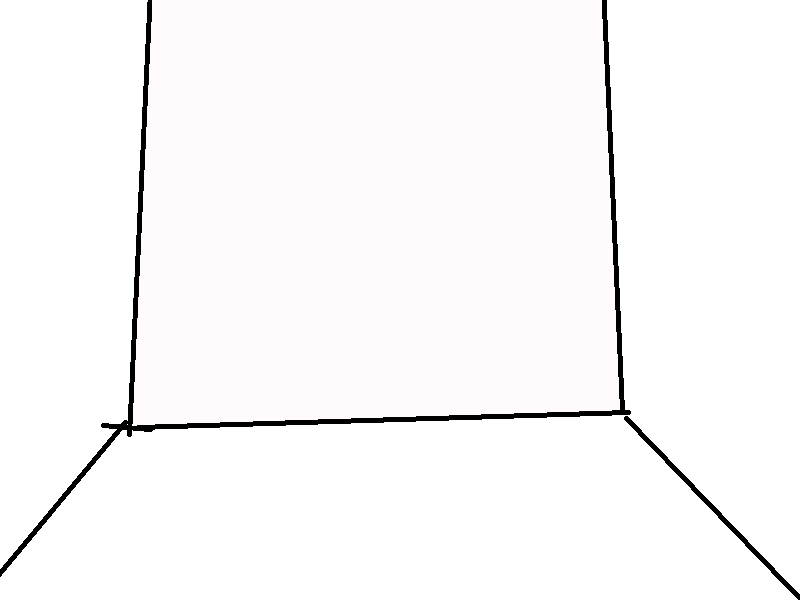
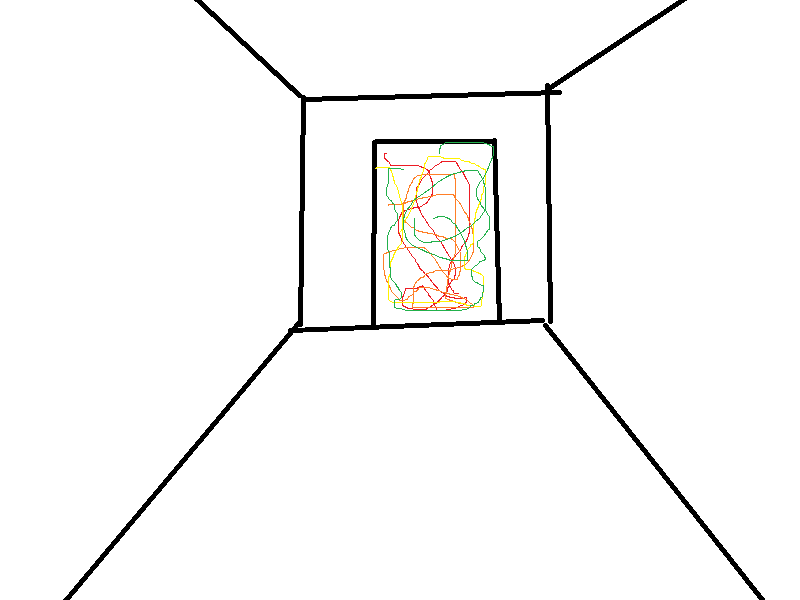
GCH this, GCH that, GCH Wi-Fi, GCH RAM
I added GCH like you probably guessed from the commit title. You can move around and stuff. But there's really not a lot of other things.

diff --git a/main.py b/main.py
@@ -7,6 +7,7 @@ from consts import WIDTH, HEIGHT, FPS, SAMP_CAP, save_folder
 from func import (file_thing, save, default, sfx, mus, fill_out_six_files, def_game, def_dia,
 setup_dialogue, setup_game, animate, settings, samp)
 from game import process_game
+import random
 
 
 #os.environ["SDL_WINDOWS_DPI_AWARENESS"] = "permonitorv2"
@@ -86,7 +87,44 @@ movement = {
     "CasinoSlot": {"CasinoEntrance": pg.Rect(0, 0, 50, 600),
                    "CasinoBlackjack": pg.Rect(750, 0, 50, 600)},
     "CasinoBlackjack": {"CasinoSlot": pg.Rect(0, 0, 50, 600)},
-    "LCE": {"LCPE": pg.Rect(0, 0, 800, 600)}
+    "LCE": {"LCPE": pg.Rect(0, 0, 800, 600)},
+    "GCH_Entrance_Top": {"DatCorner": pg.Rect(0, 550, 800, 50),
+                         "GCH_Entrance": pg.Rect(173, 1, 427, 428)},
+    "GCH_Entrance": {"GCH_Entrance_Top": pg.Rect(0, 550, 800, 50),
+                     "BarGCH": pg.Rect(261, 51, 230, 372),
+                     "GCH_Trilator": pg.Rect(0, 0, 50, 600),
+                     "GCH_BeforeBigEmptyRoom": pg.Rect(750, 0, 50, 600)},
+    "GCH_Trilator": {"GCH_Gym1": pg.Rect(346, 111, 82, 73),
+                    "GCH_Entrance": pg.Rect(0, 550, 800, 50)},
+    "GCH_secret": {"GCH_Trilator": pg.Rect(0, 550, 800, 50)},
+    "GCH_Gym1": {"GymBike": pg.Rect(507, 55, 152, 303),
+                 "GymRun": pg.Rect(112, 41, 150, 343),
+                 "GCH_Gym2": pg.Rect(265, 40, 244, 341),
+                 "GCH_Trilator": pg.Rect(750, 0, 50, 600)},
+    "GCH_Gym2": {"GymBLift": pg.Rect(528, 80, 270, 363),
+                 "GymLift": pg.Rect(2, 82, 240, 385),
+                 "GCH_Gym1": pg.Rect(0, 550, 800, 50),
+                 "GCH_Gym3": pg.Rect(245, 117, 281, 273)},
+    "GCH_Gym3": {"GymFood": pg.Rect(473, 114, 326, 337),
+                 "GymSleep": pg.Rect(1, 113, 279, 347),
+                 "GCH_Farm": pg.Rect(282, 115, 201, 342),
+                 "GCH_Gym2": pg.Rect(0, 550, 800, 50)},
+    "GCH_Farm": {"GCH_Gym3": pg.Rect(0, 550, 800, 50)},
+    "GCH_BeforeBigEmptyRoom": {"GCHLBigRoom": pg.Rect(163, 134, 72, 348),
+                               "GCHRBigRoom": pg.Rect(335, 106, 95, 317),
+                               "GCH_Entrance": pg.Rect(0, 550, 800, 50)},
+    "GCHLBigRoom": {"GCHLBehind": pg.Rect(0, 599, 800, 1),
+                    "GCH_BeforeBigEmptyRoom": pg.Rect(582, 29, 21, 482),
+                    "GCHBigRoom": pg.Rect(200, 19, 255, 284)},
+    "GCHRBigRoom": {"GCHRBehind": pg.Rect(0, 550, 800, 50),
+                    "GCH_BeforeBigEmptyRoom": pg.Rect(0, 0, 50, 600),
+                    "GCHBigRoom": pg.Rect(93, 0, 707, 348)},
+    "GCHBigRoom": {"GCHLBigRoom": pg.Rect(0, 0, 50, 600),
+                   "GCHRBigRoom": pg.Rect(0, 550, 800, 50)},
+    "GCHLBehind": {"GCHRestrictedUF": pg.Rect(128, 0, 499, 412),
+                   "GCHLBigRoom": pg.Rect(0, 550, 800, 50)},
+    "GCHRBehind": {"Baloons!": pg.Rect(372, 139, 121, 187),
+                   "GCHRBigRoom": pg.Rect(0, 550, 800, 50)}
 }
 
 interactions = {
@@ -142,7 +180,7 @@ interactions = {
     "neighborhood1": [(pg.Rect(196, 173, 67, 291), "1's_house")], ##
     'intersection2': [(pg.Rect(273, 97, 213, 243), "Dummy!")],
     "LCPE": [(pg.Rect(161, 0, 214, 139), "BrickWall")],
-    "DatCorner": [(pg.Rect(544, 136, 133, 189), "EnterGCH"), ##
+    "DatCorner": [(pg.Rect(544, 136, 133, 189), "EnterGCH"),
                   (pg.Rect(231, 270, 146, 131), "chips")], ##
     "DatCornerR": [(pg.Rect(449, 168, 113, 168), "EnterRestuarant")], ##
     "DatCornerRB": [(pg.Rect(4, 90, 371, 259), "Dumpster")],
@@ -151,7 +189,8 @@ interactions = {
                 (pg.Rect(536, 140, 132, 307), "ArcadeGame3")],
     "Arcade2": [(pg.Rect(262, 73, 201, 438), "ArcadeGame4")],
     "CasinoSlot": [(pg.Rect(297, 0, 196, 475), "CasinoSlot")],
-    "CasinoBlackjack": [(pg.Rect(174, 84, 471, 332), "Blackjack")]
+    "CasinoBlackjack": [(pg.Rect(174, 84, 471, 332), "Blackjack")],
+    "GCH_Trilator": [(pg.Rect(245, 94, 61, 172), "SecretDoor")]
 }
 
 images = {
@@ -194,13 +233,32 @@ images = {
     "CSM": pg.image.load(file_thing('res/CasinoSlotMachine.png')).convert_alpha(),
     "Casino/SlotMachine/empty": pg.image.load(file_thing("res/Casino/SlotMachine/empty.png")).convert_alpha(),
     "LCE": pg.image.load(file_thing("res/LCE.png")).convert_alpha(),
-    "CasinoBlackjack": pg.image.load(file_thing("res/CasinoBlackjack.png")).convert_alpha()
+    "CasinoBlackjack": pg.image.load(file_thing("res/CasinoBlackjack.png")).convert_alpha(),
+    "GCH_Entrance_Top": pg.image.load(file_thing("res/GCH_Entrance_Top.png")).convert_alpha(),
+    "GCH_Entrance": pg.image.load(file_thing("res/GCH_Entrance.png")).convert_alpha(),
+    "GCH_Trilator": pg.image.load(file_thing("res/GCHTrilator.png")).convert_alpha(),
+    "GCH_secret": pg.image.load(file_thing("res/TrashRoomWithSomeLoreGCH.png")).convert_alpha(),
+    "GCH_Gym1": pg.image.load(file_thing("res/GCHGym1.png")).convert_alpha(),
+    "GCH_Gym2": pg.image.load(file_thing("res/GCHGym2.png")).convert_alpha(),
+    "GCH_Gym3": pg.image.load(file_thing("res/GCHGym3.png")).convert_alpha(),
+    "GCH_Farm": pg.image.load(file_thing("res/GCHFarm.png")).convert_alpha(),
+    "BarGCH": pg.image.load(file_thing("res/EnterBarGCH1Thing.png")).convert_alpha(),
+    "GCH_BeforeBigEmptyRoom": pg.image.load(file_thing("res/GCH_BeforeBigEmptyRoom.png")).convert_alpha(),
+    "GCH_Table": pg.image.load(file_thing("res/GCHBarSittingAtTable.png")).convert_alpha(),
+    "GCHLBigRoom": pg.image.load(file_thing("res/GCHLBigRoom.png")).convert_alpha(),
+    "GCHRBigRoom": pg.image.load(file_thing("res/GCHRBigRoom.png")).convert_alpha(),
+    "GCHRBehind": pg.image.load(file_thing("res/GCHRBehind.png")).convert_alpha(),
+    "GCHLBehind": pg.image.load(file_thing("res/GCHLBehind.png")).convert_alpha(),
+    "GCHBigRoom": pg.image.load(file_thing("res/GCHBigRoom.png")).convert_alpha(),
+    "GCHRestrictedUF": pg.image.load(file_thing("res/GCHRestrictedUF.png")).convert_alpha()
 }
 
 icons = {
     'key': pg.image.load(file_thing("res/icons/key.png")).convert_alpha(),
     'null': pg.image.load(file_thing('res/icons/null.png')).convert_alpha(),
-    'error': pg.image.load(file_thing('res/icons/error.png')).convert_alpha()
+    'error': pg.image.load(file_thing('res/icons/error.png')).convert_alpha(),
+    'start': pg.image.load(file_thing('res/icons/Take_me_home.png')).convert_alpha(),
+    'runfalse': pg.image.load(file_thing('res/icons/runfalse.png')).convert_alpha()
 }
 
 plus = pg.image.load(file_thing("res/dummy_plus.png"))
@@ -557,7 +615,8 @@ while run:
         try:
             need_error = False
             for des, rec in movement[current['loc']].items():
-                if rec.collidepoint(mouse) and not dialogue['on'] and not game['on']:
+                if rec.collidepoint(mouse) and not dialogue['on'] and not game[
+                    'on'] and not in_inventory:
                     sur = pg.Surface((rec.width, rec.height), pg.SRCALPHA)
                     sur.fill((0, 0, 0, 127))
                     screen.blit(sur, (rec.x, rec.y))
@@ -573,7 +632,7 @@ while run:
                 musID[current['mus']].set_volume(mus)
                 for _ in range(samp): musID[current['mus']].play()
                 playing[current['mus']] = now
-        if current['loc'] in interactions and not dialogue['on'] and not game['on']:
+        if current['loc'] in interactions and not dialogue['on'] and not game['on'] and not in_inventory:
             for ntc, interaction in interactions[current['loc']]:
                 if ntc.collidepoint(mouse) and clciked:
                     process_interactions(interaction, current, sfx, now, musID, playing,
@@ -631,6 +690,11 @@ while run:
                                           font=pgft.SysFont(None, 32))
             elif inventory_inspection == 'error':
                 setup_dialogue(dialogue, ["An error occured :("])
+            elif inventory_inspection == 'start':
+                current['loc'] = random.choice([loc for loc in images])
+                print(current['loc'])
+            elif inventory_inspection == 'runfalse':
+                run = False
         if current['loc'] in ['kitchen', 'his_place']:
             if current['loc'] == 'kitchen':
                 screen.blit(strongest, (107, 360))
@@ -709,9 +773,16 @@ while run:
                             current['inventory'].append("key")
                             current['got_key'] = True
                             dialogue['text'].append("You got the key.")
-                    elif dialogue['diaID'] == 6:
+                    elif dialogue['diaID'] == 5.5:
                         if dialogue['responses'][-1] == 0:
                             setup_game(game, "TEMPE", None, {"WTR": 1})
+                    elif dialogue['diaID'] == 6:
+                        if dialogue['responses'][-1] == 0:
+                            current['GCH_SDP'] = 1
+                            current['loc'] = 'GCH_secret'
+                            dialogue['text'].append("You unlocked the door and stepped inside")
+                        else:
+                            dialogue['text'].append("You decided not to.")
                     dialogue['JSR'] = False
                 try:
                     opt_split = dialogue['text'][dialogue['processID']]
@@ -741,7 +812,6 @@ while run:
                     
                 if temp:
                     box_lines.append(temp)
-                inde = -1
                 locat = 320
                 for text in box_lines:
                     dfont.render_to(screen, (70, locat), text, (0, 0, 0))

diff --git a/game.py b/game.py
@@ -216,13 +216,13 @@ def process_game(game, screen, images, clciked, now, current, frame, sfx, mouse,
                         ppx = random.randint(15, 785)
                         pos = random.choice(["x", "y"])
                         if pos == "x":
-                            sarect = pg.Rect(5, ppy-20, 790, 40)
+                            game['vars']['sarect'] = pg.Rect(5, ppy-20, 790, 40)
                         else:
-                            sarect = pg.Rect(ppx-20, 5, 40, 590)
-                        pg.draw.rect(screen, (255, 0, 0), sarect)
-                    elif game['vars']['sas'] >= 450//spcttd+5 and sarect is not None:
+                            game['vars']['sarect'] = pg.Rect(ppx-20, 5, 40, 590)
+                        pg.draw.rect(screen, (255, 0, 0), game['vars']['sarect'])
+                    elif game['vars']['sas'] >= 450//spcttd+5 and game['vars']['sarect'] is not None:
                         game['vars']['sas'] = 0
-                        if player.rect.colliderect(sarect):
+                        if player.rect.colliderect(game['vars']['sarect']):
                             for _ in range(75):
                                 if player.damage():
                                     game['on'] = False
@@ -234,10 +234,10 @@ def process_game(game, screen, images, clciked, now, current, frame, sfx, mouse,
                             else:
                                 screen.fill((255, 255, 0))
                     elif game['vars']['sas'] < 432//spcttd:
-                        sarect = None
+                        game['vars']['sarect'] = None
                         player.boost = 1.5
-                    if sarect:
-                        pg.draw.rect(screen, (255, 0, 0), sarect)
+                    if game['vars']['sarect']:
+                        pg.draw.rect(screen, (255, 0, 0), game['vars']['sarect'])
                         player.boost = 2
                     if now - game['vars']['mst'] >= game['consts']['meteor_st']:
                         mimages = ["res/space_invaders_meteor.png", "res/space_invaders_meteor2.png", "res/space_invaders_meteor3.png"]
@@ -393,7 +393,10 @@ def process_game(game, screen, images, clciked, now, current, frame, sfx, mouse,
 
             else:
                 mmmfont.render_to(screen, (15, 15), "You need to parry the ball 100 times to win.", (255, 255, 255))
-                mmmfont.render_to(screen, (15, 65), "You have 3 lives. Click to start.", (255, 255, 255))
+                mmmfont.render_to(screen, (15, 65), "You have 3 lives. Click to start. W or S to ", (255, 255, 255))
+                mmmfont.render_to(screen, (15, 115), "move. You can use keys E and D to move ", (255, 255, 255))
+                mmmfont.render_to(screen, (15, 165), "twice as slower, R and F to move 4 times ", (255, 255, 255))
+                mmmfont.render_to(screen, (15, 215), "slower and T and G to move 8 times slower.", (255, 255, 255))
                 if clciked:
                     game['vars']['on'] = True
         elif game['ID'] == 4:
@@ -405,7 +408,7 @@ def process_game(game, screen, images, clciked, now, current, frame, sfx, mouse,
                         alphabet = 'abcdefghijklmnopqrstuvwxyz'
                         game['vars']['word'] += alphabet[random.randint(0, 25)]
                 pressed = []
-                for string, pgm in game['vars']['spcd'].items():
+                for string, pgm in game['consts']['spcd'].items():
                     if keys[pgm]:
                         if game['vars']['w'][string] is None:
                             game['vars']['w'][string] = frame

diff --git a/interaction.py b/interaction.py
@@ -331,5 +331,29 @@ def process_interactions(interaction, current, sfx, now, musID, playing, savefil
     elif interaction == "chips":
         setup_dialogue(dialogue, [
         "Since there is no way to obtain Casino Chips yet I shall give them out",
-        "Do you want some Casino Chips?", None], 6, [None, None, ["Yes", "No"]],
+        "Do you want some Casino Chips?", None], 5.5, [None, None, ["Yes", "No"]],
         name="Chip Dealer") # TEMPE
+    elif interaction == 'EnterGCH':
+        current['loc'] = 'GCH_Entrance_Top'
+    elif interaction == "SecretDoor":
+        if current['GCH_SDP'] == -1:
+            if not current['got_key']:
+                setup_dialogue(dialogue,
+                ["You feel a faint outlign of a door...", "...", "You feel a keyhole..."
+                 "It's locked."],
+                font=pgft.SysFont("Lucida Sans Regular", 16))
+                current['GCH_SDP'] += 1
+            else:
+                setup_dialogue(dialogue, ["You feel an outlign of a door...",
+                "There's a keyhole!", "Use your key?", None], 6, [None, None, None, ["YES!",
+                                    "nah"]],
+                pgft.SysFont("Lucida Sans Regular", 16))
+        elif current['GCH_SDP'] == 0:
+            if not current['got_key']:
+                setup_dialogue(dialogue, ["The door is still locked",
+                "Like what did you expect?"], font=pgft.SysFont("Lucida Sans Regular", 16))
+            else:
+                setup_dialogue(dialogue, ["You feel the keyhole...", "Use your key?", None],
+                6, [None, None, ["YES!", 'nah']], pgft.SysFont("Lucida Sans Regular", 16))
+        elif current['GCH_SDP'] == 1:
+            current['loc'] = "GCH_secret"

diff --git a/data.py b/data.py
@@ -2,23 +2,6 @@ import pygame as pg
 
 
 pg.init()
-rec1 = pg.Rect(700, 600, 100, 600)
-rec1.bottomleft = (700, 600)
-rec2 = pg.Rect(0, 600, 100, 600)
-rec2.bottomleft = (0, 600)
-
-rec3 = pg.Rect(350, 100, 100, 100)
-rec3.bottomleft = (350, 100)
-
-loc = "0"
-
-movement = {
-    "0": {"1": rec1, "2": rec3},
-    "1": {"0": rec2},
-    "2": {"1": rec1}
-}
-
-
 
 def recty(lp, mouse, way=0):
     lc = min(lp[0], mouse[0])
@@ -33,7 +16,7 @@ screen = pg.display.set_mode((800, 600))
 pg.display.set_caption("Get Cords")
 clock = pg.time.Clock()
 
-image_name = "CasinoSlot"
+image_name = "GCHRBehind"
 IMAGE = pg.image.load(f'res/{image_name}.png').convert_alpha()
 
 rects = [pg.Rect(325, 340, 150, 250), pg.Rect(150, 340, 150, 250), pg.Rect(500, 340, 150, 250),
@@ -41,6 +24,7 @@ rects = [pg.Rect(325, 340, 150, 250), pg.Rect(150, 340, 150, 250), pg.Rect(500, 
 rects = [pg.Rect(412, 340, 150, 250), pg.Rect(238, 340, 150, 250),
          pg.Rect(412, 10, 150, 250), pg.Rect(238, 10, 150, 250)]
 rects = [pg.Rect(0, 0, 700, 100)]
+rects = []
 lp = None
 run = True
 while run:

diff --git a/func.py b/func.py
@@ -20,7 +20,8 @@ default = {
     "legend": False,
     "inventory": [],
     "got_key": False,
-    "CasinoChips": 0
+    "CasinoChips": 0,
+    "GCH_SDP": -1,
 }
 
 def save(savefile, data=None):
